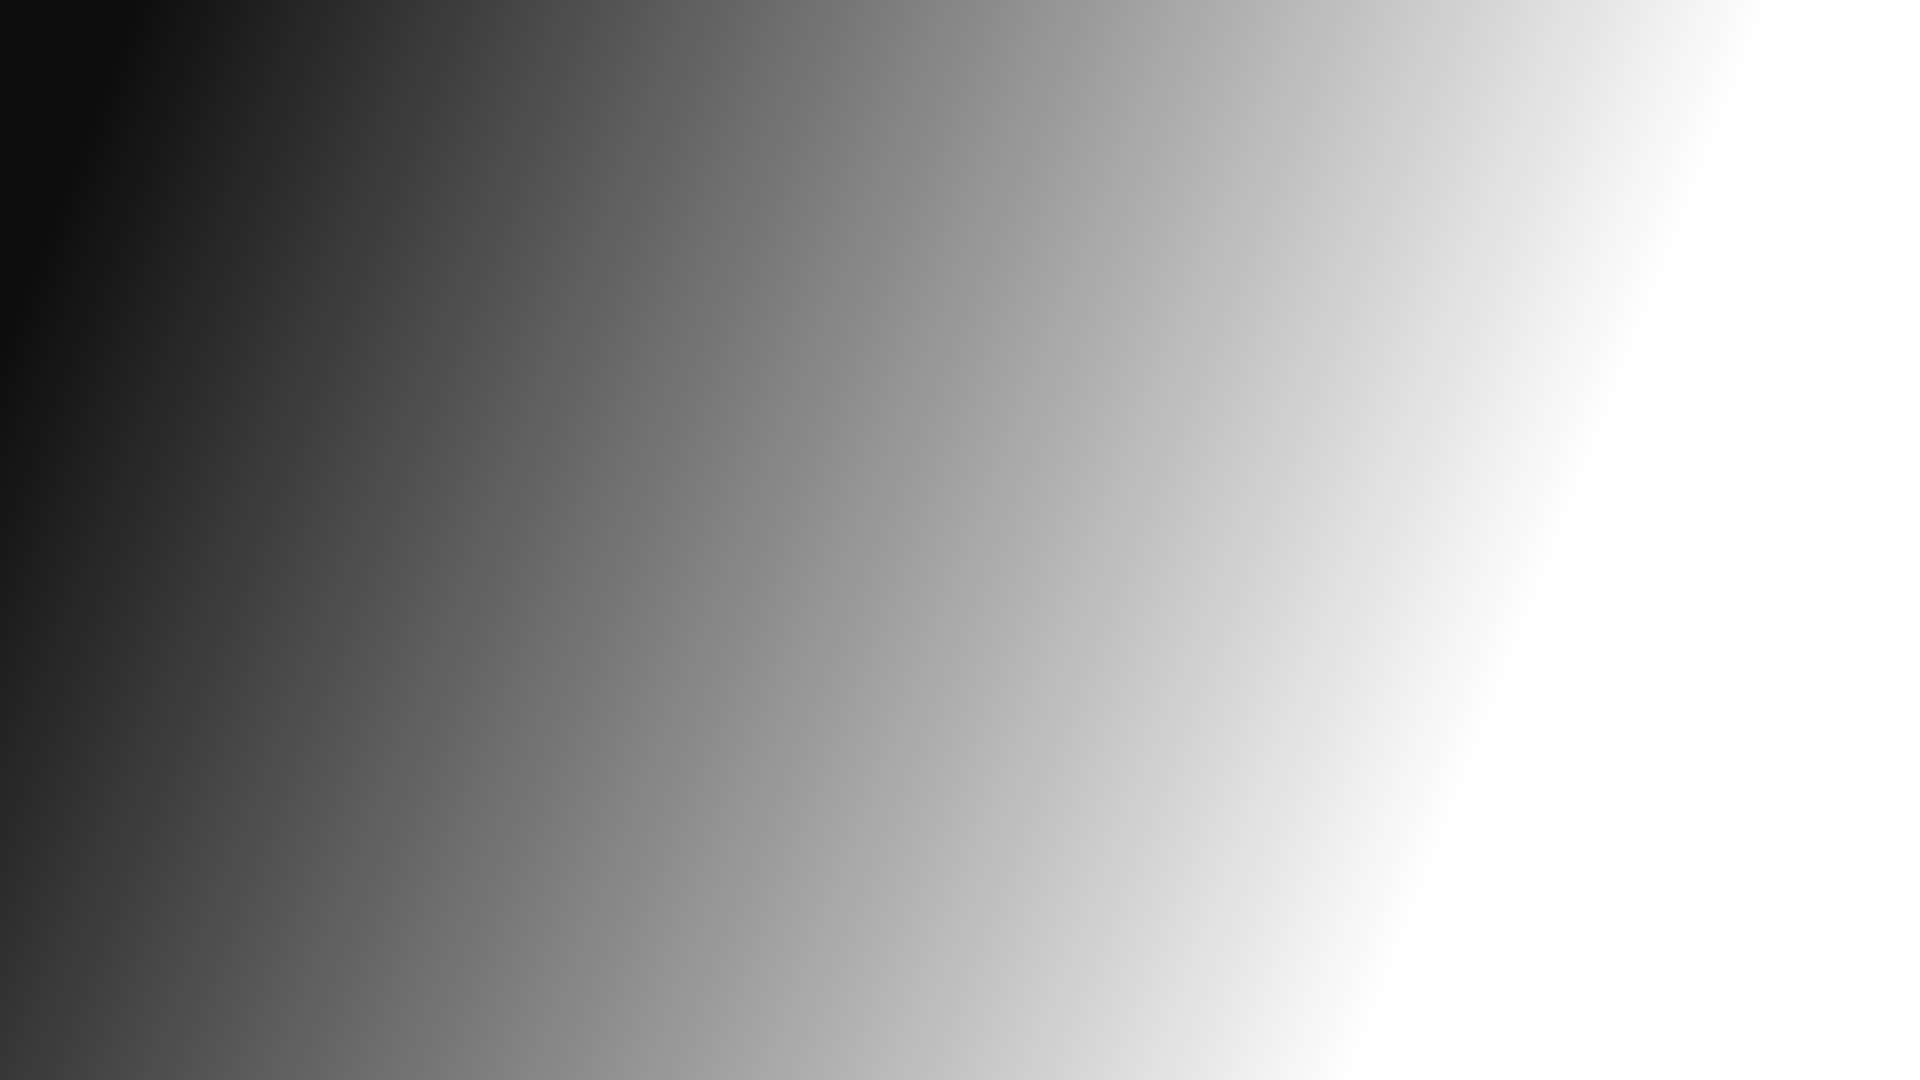
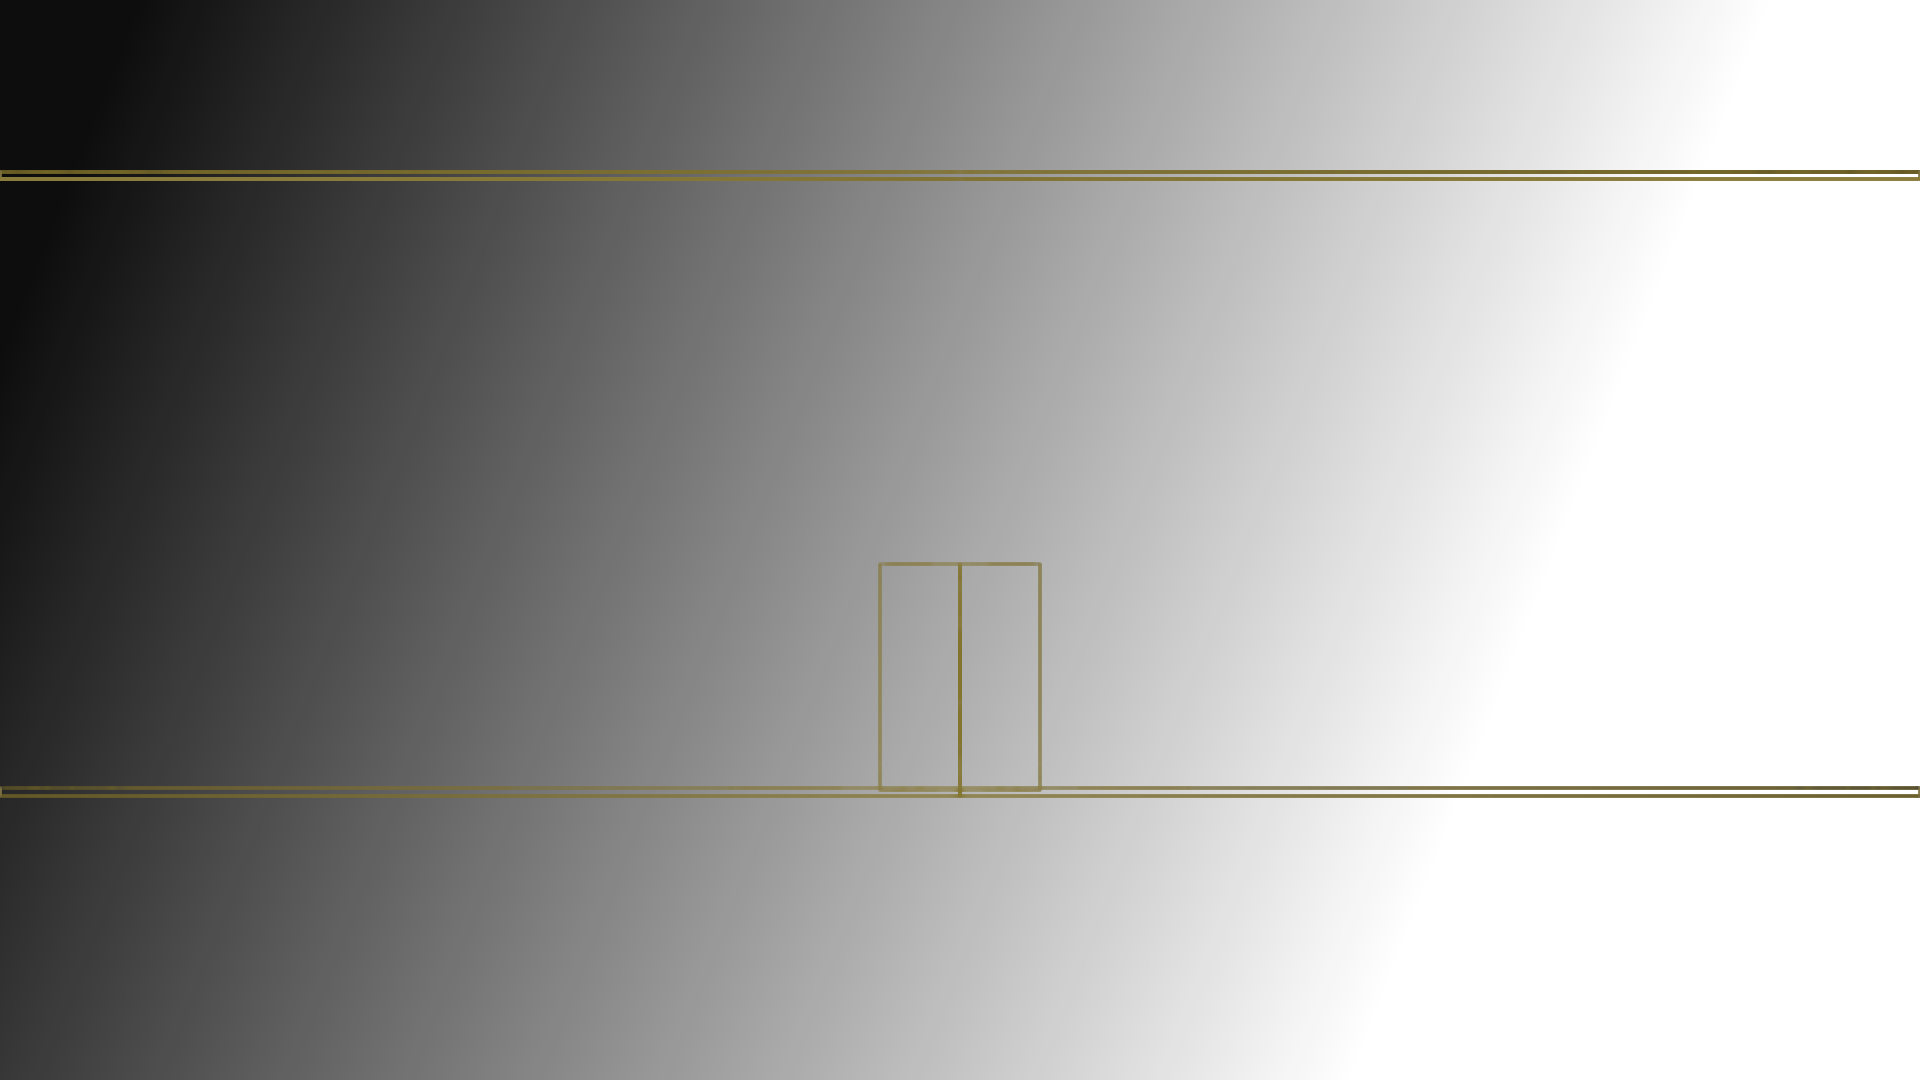
Agora o player continua se movendo mesmo que o cenário esteja parado, no caso de margens de cenário

Changed region(s): [[0.0, 0.7028, 1.0, 0.7639], [0.0, 0.1528, 1.0, 0.1833], [0.4375, 0.5194, 0.5625, 0.55]]

diff --git a/script/script.js b/script/script.js
@@ -2,6 +2,8 @@ const teste = document.getElementById("hora")
 let contador = 0
 var FPS = 10
 const velocidade_cenario = 20
+let _andando = true
+let player_centralizado = true
 
 class Player{
 
@@ -15,6 +17,8 @@ class Player{
         this.elemento_html = elemento_html
         this.pos_y_inicial = 18.3
         this.pos_y = this.pos_y_inicial
+        this.pos_x_inicial = 22
+        this.pos_x = this.pos_x_inicial
 
         //Carregamento de animações
         this.animacoes ={
@@ -36,6 +40,17 @@ class Player{
         
         
     }
+    
+    centralizado(){
+        if(this.pos_x == this.pos_x_inicial){
+            player_centralizado = true
+            console.log(this.pos_x_inicial)
+        }else{
+            player_centralizado = false
+            console.log(this.pos_x_inicial)
+        }
+    }
+    
 
 
     mudar_imagem(img){
@@ -46,6 +61,12 @@ class Player{
 
     //Animação de andar
     animacao_para_direita(t){
+        if(!_andando){
+            if(t.pos_x <= 53){
+                t.pos_x = t.pos_x +1
+                t.elemento_html.style.marginLeft = `${t.pos_x}vw`             
+            }
+        }
         const animacao = t.animacoes.andar_direita
         const img = animacao.diretorio+animacao.numero_da_imagem_atual+".png"
         t.mudar_imagem(img)
@@ -53,11 +74,20 @@ class Player{
         if(animacao.numero_da_imagem_atual == animacao.qtd_max_img + 1){
             animacao.numero_da_imagem_atual=0
         }
+        
+        t.centralizado()
     }
 
 
     //Animação de andar
     animacao_para_esquerda(t){
+        if(!_andando){
+            if(t.pos_x >= -10){
+                t.pos_x = t.pos_x -1
+                t.elemento_html.style.marginLeft = `${t.pos_x}vw`
+                
+            }
+        }
         const animacao = t.animacoes.andar_esquerda
         const img = animacao.diretorio+animacao.numero_da_imagem_atual+".png"
         t.mudar_imagem(img)
@@ -65,6 +95,8 @@ class Player{
         if(animacao.numero_da_imagem_atual == animacao.qtd_max_img + 1){
             animacao.numero_da_imagem_atual=0
         }
+        
+        t.centralizado()
     }
 
     //Animacao de pular
@@ -326,18 +358,30 @@ class Cenario{
         if(vel >= 0 ){
 
             if(!(t.limite_direito()[0] && t.limite_direito()[1] <= -24)){
+                if(player_centralizado){
                 t.posicao_atual_1 = t.posicao_atual_1 - 0.1*vel
                 t.posicao_atual_2 = t.posicao_atual_2 - 0.1*vel
                 t.elemento_html_1.style.marginLeft = t.posicao_atual_1.toString() + "vw"
                 t.elemento_html_2.style.marginLeft = t.posicao_atual_2.toString() + "vw"
+                _andando = true
+                }
+                
+            }else{
+                _andando = false
             }
 
         }else{
             if(!(t.limite_esquerdo()[0] && t.limite_esquerdo()[1] >= -24)){
+                if(player_centralizado){
                 t.posicao_atual_1 = t.posicao_atual_1 - 0.1*vel
                 t.posicao_atual_2 = t.posicao_atual_2 - 0.1*vel
                 t.elemento_html_1.style.marginLeft = t.posicao_atual_1.toString() + "vw"
                 t.elemento_html_2.style.marginLeft = t.posicao_atual_2.toString() + "vw"
+                _andando = true
+                }
+                
+            }else{
+                _andando = false
             }
         }
         
@@ -424,7 +468,9 @@ class Cenario{
 
 
 const player = new Player("img/player/andar/direita/0.png","img/player/andar/esquerda/0.png",document.getElementById("player"))
-const cenario = new Cenario("img/cenario/",5,document.getElementById("cenario_1"),document.getElementById("cenario_2"))
-player.controlador()
+const cenario = new Cenario("img/cenario/",3,document.getElementById("cenario_1"),document.getElementById("cenario_2"))
 cenario.controlador()
+player.controlador()
+
+
 
